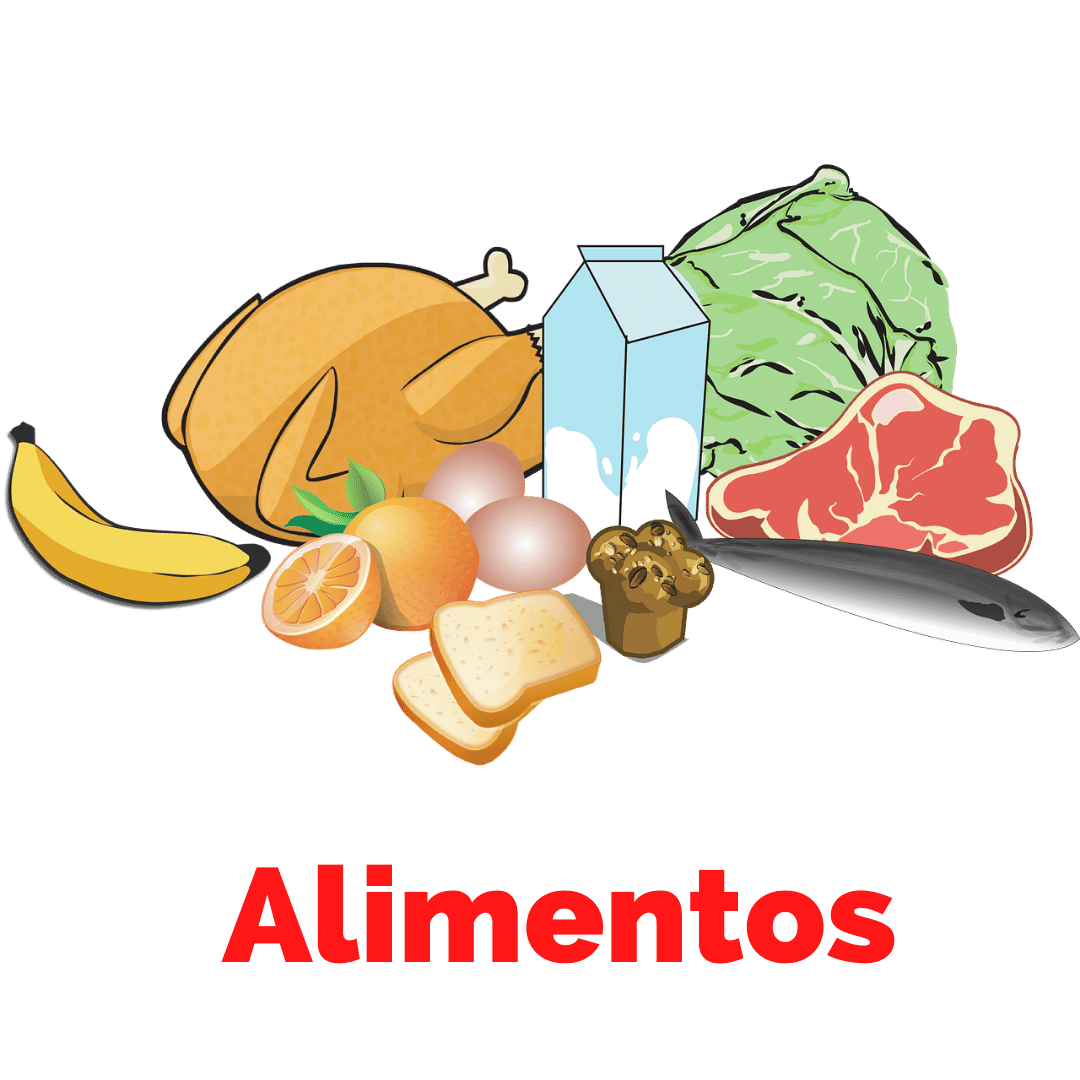
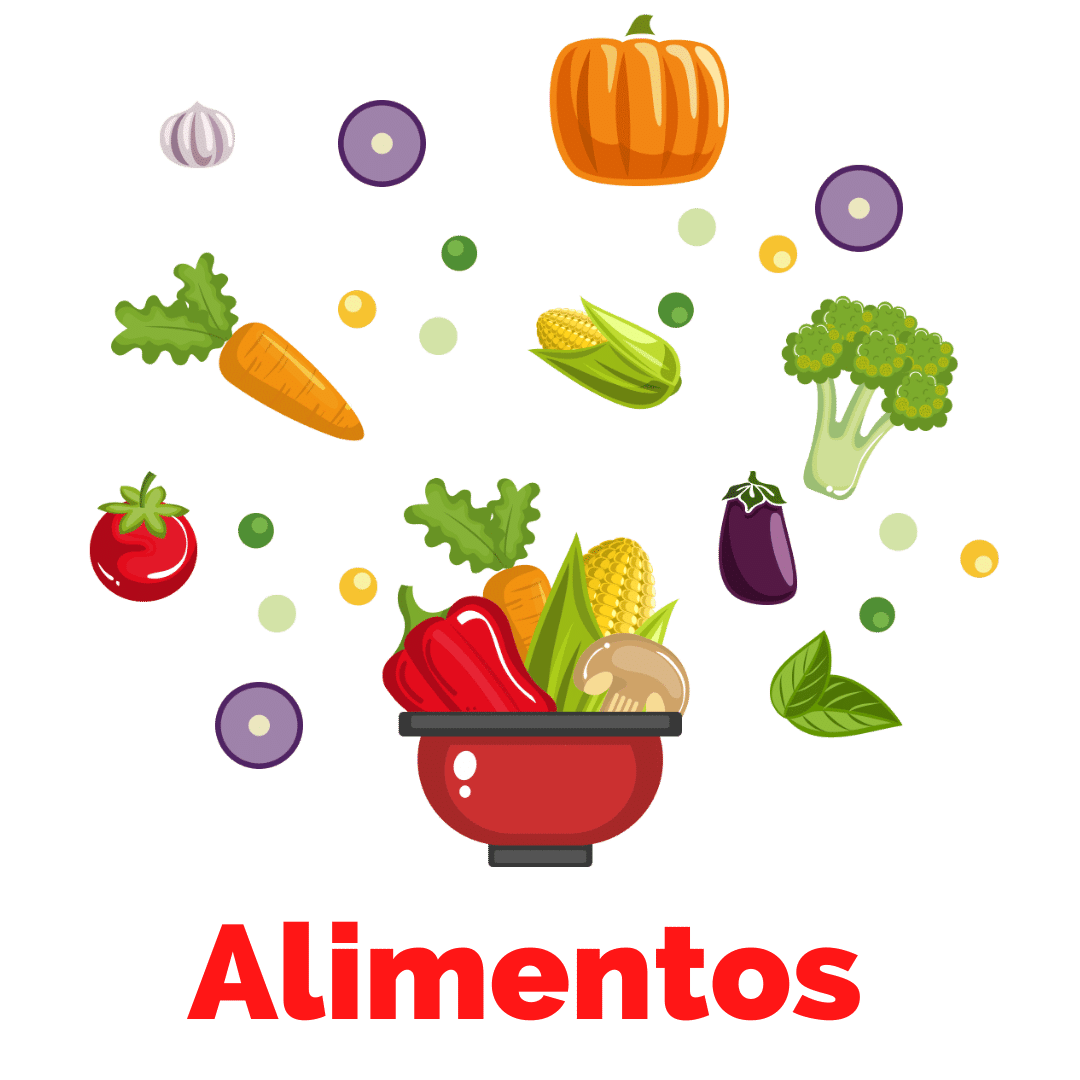
varios cambios

diff --git a/index.html b/index.html
@@ -34,13 +34,12 @@
 </header>
 <main class="contenido">
 	<div class="principal">
-		<div class="box">
+		<div class="box" onclick=window.location.href='file:///C:/Users/Daniela/Documents/github/paginas/abecedario.html'>
 			<div class="content">
-				<a href="https://www.youtube.com/watch?v=fqvDeR9SoSI&ab_channel=SongEnglish">
-					<img src="imagenes/abcd.png">
-				</a>
+				<img src="imagenes/abcd.png">
 			</div>
 		</div>
+			
 		<div class="box">
 			<div class="content">
 				<img src="imagenes/colores (3).png">
@@ -78,12 +77,12 @@
 		</div>
 		<div class="box">
 			<div class="content">
-				<img src="imagenes/.png">
+				<img src="imagenes/alimentos.png">
 			</div>
 		</div>
 		<div class="box">
 			<div class="content">
-				<img src="imagenes/10.png">
+				<img src="imagenes/año.png">
 			</div>
 		</div>
 	</div>

diff --git a/css/estilos.css b/css/estilos.css
@@ -7,7 +7,7 @@
 }
 body{
     cursor: pointer;
-    font-family: Arial, Helvetica, sans-serif;    
+    font-family: Arial, Helvetica, sans-serif; 
 }
 nav{
     background: none;
